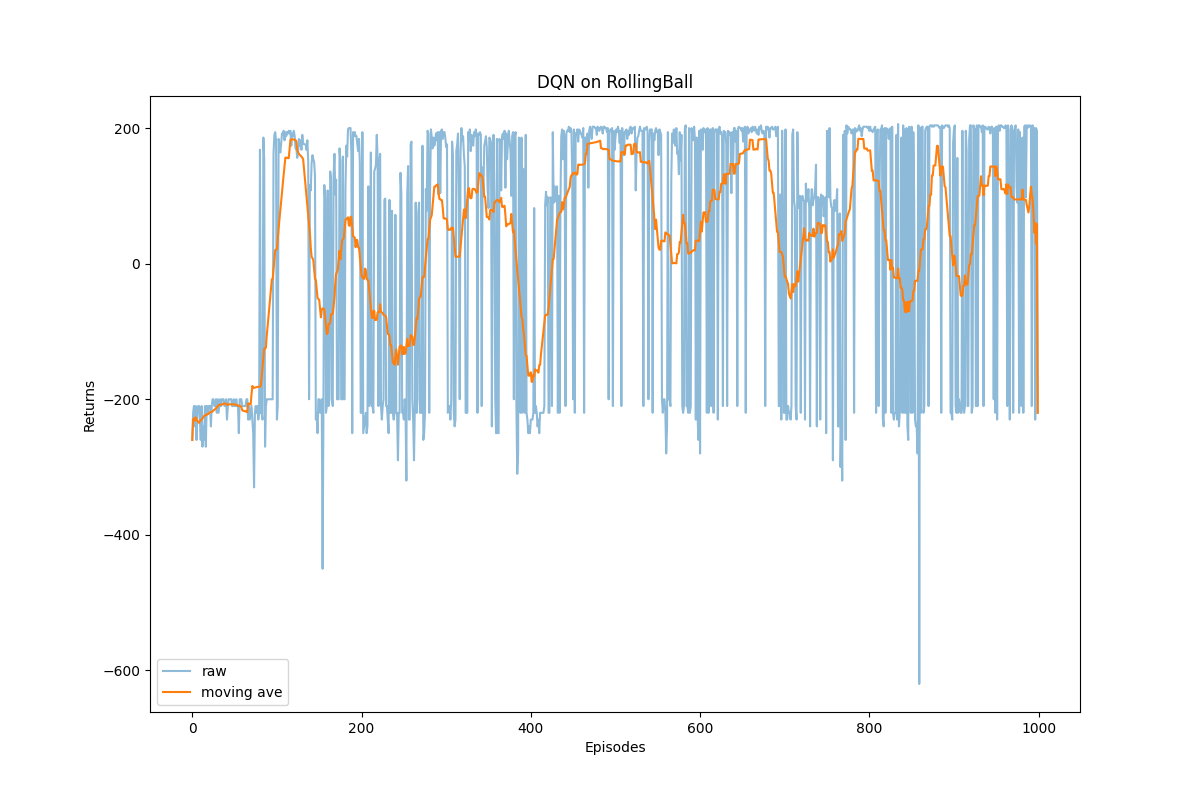
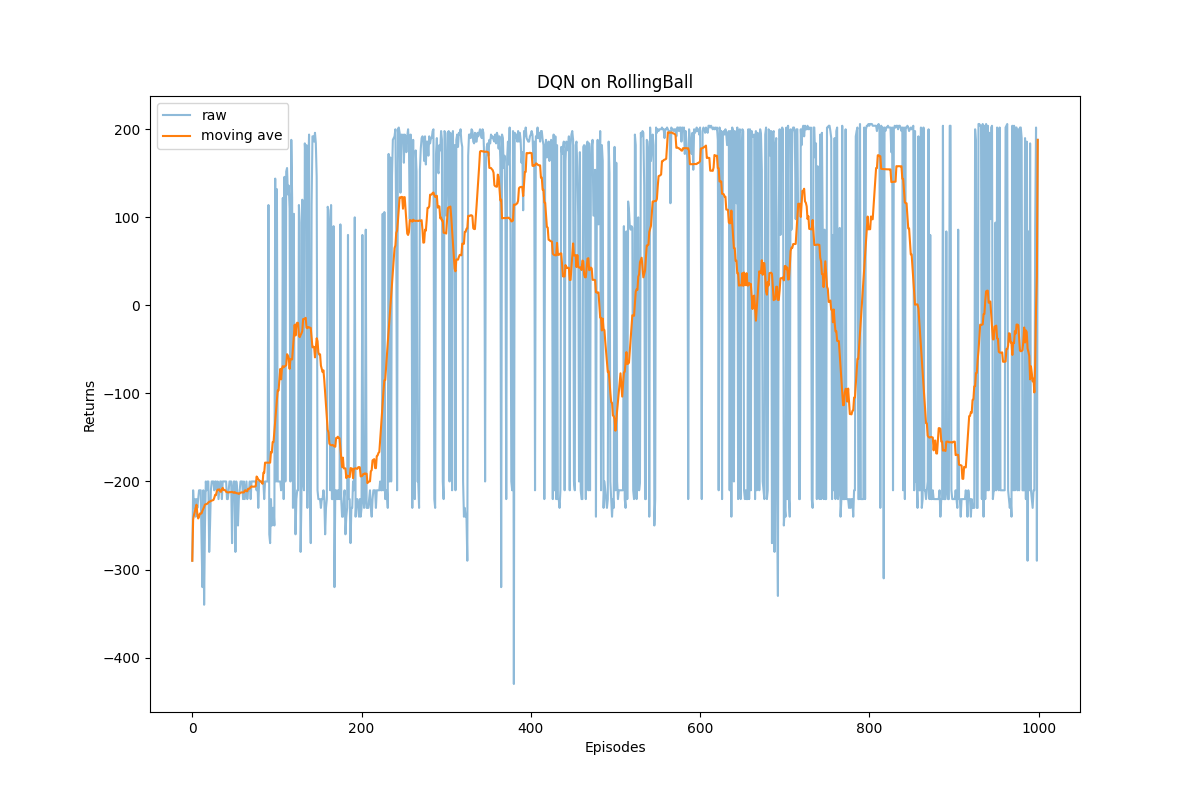
Refactor DQN implementation and update training parameters
- Updated the execution count in RL_DQN.ipynb to reflect the latest run.
- Modified output logs in RL_DQN.ipynb to show new episode and iteration details.
- Changed learning rate from 0.01 to 0.001 in RL_DQN.ipynb for improved training stability.
- Added weight initialization method using Kaiming uniform initialization in Q_Net class in RL_DQN_Class.py.
- Updated the DQN and DQN_MaxQ result images to reflect the latest training outcomes.

diff --git a/two_dimensional_rolling_motion_Problem/RL_DQN_Class.py b/two_dimensional_rolling_motion_Problem/RL_DQN_Class.py
@@ -31,7 +31,19 @@ class Q_Net(torch.nn.Module):
         self.fc1 = torch.nn.Linear(input_dim, hidden_dim)
         self.fc2 = torch.nn.Linear(hidden_dim, hidden_dim)
         self.fc3 = torch.nn.Linear(hidden_dim, output_dim)
-
+        # 初始化权重
+        self._init_weights()
+    
+    def _init_weights(self):
+        """使用Kaiming初始化权重，适合激活函数为Relu"""
+        for module in self.modules():
+            if isinstance(module, nn.Linear):
+                # 使用 Kaiming 均匀初始化，指定 nonlinearity='relu'
+                nn.init.kaiming_uniform_(module.weight, nonlinearity='relu')
+                # 偏置置零
+                if module.bias is not None:
+                    nn.init.zeros_(module.bias)
+                    
     def forward(self, x):
         x = F.relu(self.fc1(x)) 
         x = F.relu(self.fc2(x))
